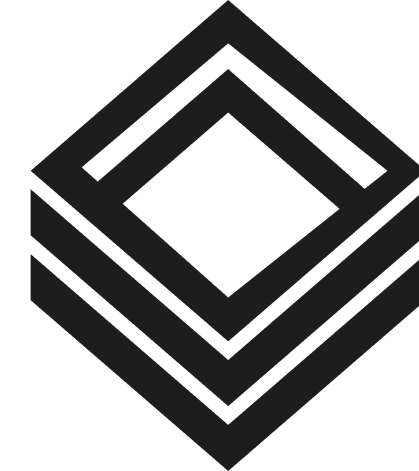
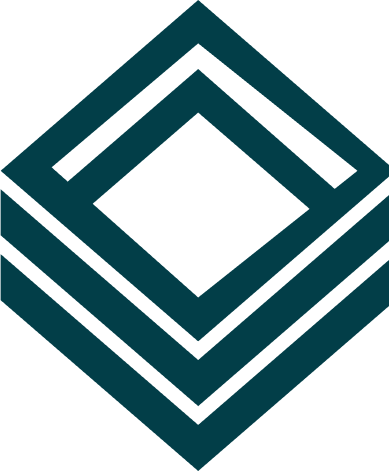
Theme Color

diff --git a/assets/css/style.css b/assets/css/style.css
@@ -145,7 +145,7 @@ body .container {
   width: 100%;
   height: 100%;
   overflow: visible;
-  background: #000 url("../img/loader.svg") no-repeat center center;
+  background: #023e48 url("../img/loader.svg") no-repeat center center;
 }
 
 [data-background] {
@@ -648,7 +648,7 @@ select:visited {
   animation-fill-mode: both;
   -webkit-animation-name: slideInDown;
   animation-name: slideInDown;
-  background-color: #021229;
+  background-color: #023e48;
   -webkit-animation-timing-function: ease;
   animation-timing-function: ease;
   -webkit-transition: 0.3s all ease-in-out;
@@ -772,7 +772,7 @@ select:visited {
   width: 70px;
   height: 70px;
   border-radius: 100%;
-  background-color: #021229;
+  background-color: #044e5b;
 }
 
 .ori-header-login-signup button {
@@ -1282,7 +1282,7 @@ select:visited {
   overflow: hidden;
   overflow-y: auto;
   -webkit-overflow-scrolling: touch;
-  background-color: #272727;
+  background-color: #023e48;
   -webkit-transition: all 0.5s cubic-bezier(0.9, 0.03, 0, 0.96) 0.6s;
   transition: all 0.5s cubic-bezier(0.9, 0.03, 0, 0.96) 0.6s;
   visibility: hidden;
@@ -1387,7 +1387,7 @@ select:visited {
   position: fixed;
   width: 310px;
   overflow-y: scroll;
-  background-color: #000;
+  background-color: #023e48;
   padding: 20px 35px 35px 35px;
   -webkit-box-shadow: 0px 3px 5px rgba(100, 100, 100, 0.19);
   box-shadow: 0px 3px 5px rgba(100, 100, 100, 0.19);
@@ -1577,7 +1577,7 @@ select:visited {
 .ori-digital-studio,
 .ori-inner-page {
   color: #fff;
-  background-color: #0d0d0d;
+  background-color: #044e5b;
 }
 .ori-digital-studio h1,
 .ori-digital-studio h2,
@@ -1801,9 +1801,9 @@ select:visited {
     left top,
     left bottom,
     color-stop(79.32%, rgba(9, 9, 9, 0)),
-    color-stop(99.06%, #0d0d0d)
+    color-stop(99.06%, #032a31)
   );
-  background: linear-gradient(180deg, rgba(9, 9, 9, 0) 79.32%, #0d0d0d 99.06%);
+  background: linear-gradient(180deg, rgba(9, 9, 9, 0) 79.32%, #032a31 99.06%);
 }
 .ori-slider-content-1.slick-current.slick-active .ori-slider-img {
   opacity: 1;
@@ -1868,8 +1868,8 @@ select:visited {
   height: 120px;
   margin: 0 auto;
   border-radius: 100%;
-  background-color: #0d0d0d;
-  border: 2px solid #ffffff;
+  background-color: #023e48;
+  border: 2px solid #044e5b;
 }
 
 .ori-slider-wrap-1 .slick-dots {
@@ -1886,17 +1886,17 @@ select:visited {
   height: 70px;
   display: block;
   line-height: 70px;
-  margin-bottom: 100px;
+  margin-bottom: 50px;
   border-radius: 100%;
   -webkit-transition: 500ms all ease;
   transition: 500ms all ease;
-  background-color: transparent;
+  background-color: #023e48;
 }
 .ori-slider-wrap-1 .slick-dots li:last-child {
   margin-bottom: 0;
 }
 .ori-slider-wrap-1 .slick-dots li.slick-active {
-  background-color: #021229;
+  background-color: #044e5b;
 }
 
 /*---------------------------------------------------- */
@@ -1908,7 +1908,7 @@ select:visited {
 
 .ori-service-wrapper-1 {
   padding: 130px 0px 85px;
-  background-color: #021229;
+  background-color: #044e5b;
 }
 
 .ori-service-content-1 {
@@ -2033,7 +2033,7 @@ select:visited {
   height: 1.1px;
   position: relative;
   display: inline-block;
-  background-color: #181818;
+  background-color: #023e47;
 }
 
 .ori-sponsor-slider .slick-arrow {
@@ -11434,11 +11434,11 @@ Font load
 /*----------------------------------------------------*/
 .ori-footer-section {
   padding-top: 60px;
-  background-color: #021229;
+  background-color: #023e48;
 }
 .ori-footer-section.footer-style-two {
   padding-top: 120px;
-  background-color: #021229;
+  background-color: #044e5b;
 }
 .ori-footer-section.footer-style-two .ori-copyright-text {
   color: #fff;
@@ -11728,34 +11728,45 @@ Font load
   margin-bottom: 12px;
 }
 .ori-footer-widget .menu-location-widget li a {
-  color: #7d7d7d;
+  color: #ddd;
   font-size: 15px;
 }
 .ori-footer-widget .contact-widget span,
 .ori-footer-widget .contact-widget a {
-  color: #7d7d7d;
+  color: #ddd;
   display: block;
   margin-bottom: 12px;
 }
 .ori-footer-widget .newslatter-widget .newslatter-form input {
   width: 100%;
   border: none;
+  color: #ddd;
   padding-bottom: 20px;
-  border-bottom: 1px solid #fff;
+  border-bottom: 1px solid #b9b9b9;
   background-color: transparent;
 }
+.ori-footer-widget .newslatter-widget .newslatter-form input::placeholder {
+  color: #ddd;
+}
+
 .ori-footer-widget .newslatter-widget .newslatter-form button {
   color: #fff;
   border: none;
   margin-top: 50px;
-  font-weight: 600;
   text-transform: uppercase;
-  background-color: transparent;
+  background-color: #f04a2b;
+  padding: 15px 25px;
+  font-size: 14px;
+  font-weight: 700;
+  position: relative;
+  display: inline-block;
+  border-radius: 35px;
+  letter-spacing: 0.05em;
 }
 
 .ori-footer-copyright {
   padding: 25px 0px;
-  border-top: 1px solid #292929;
+  border-top: 1px solid #044e5b;
 }
 .ori-footer-copyright .ori-copyright-text {
   font-size: 14px;
